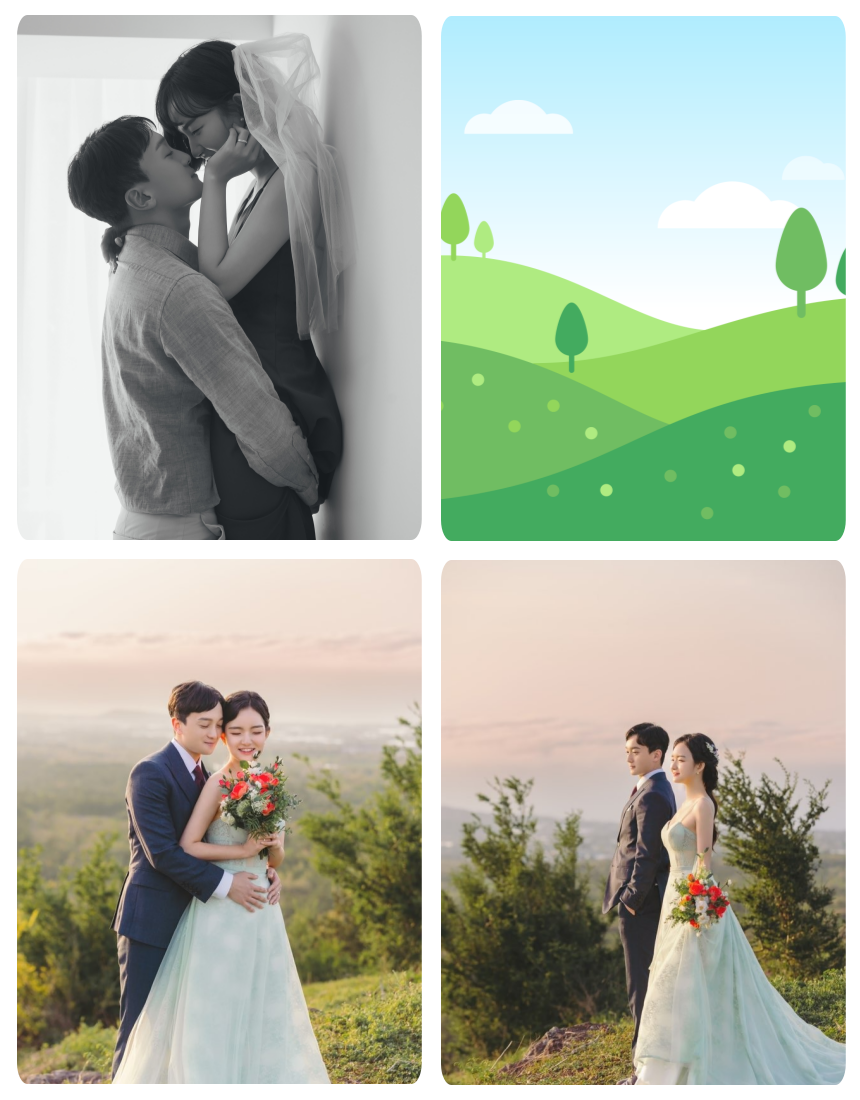
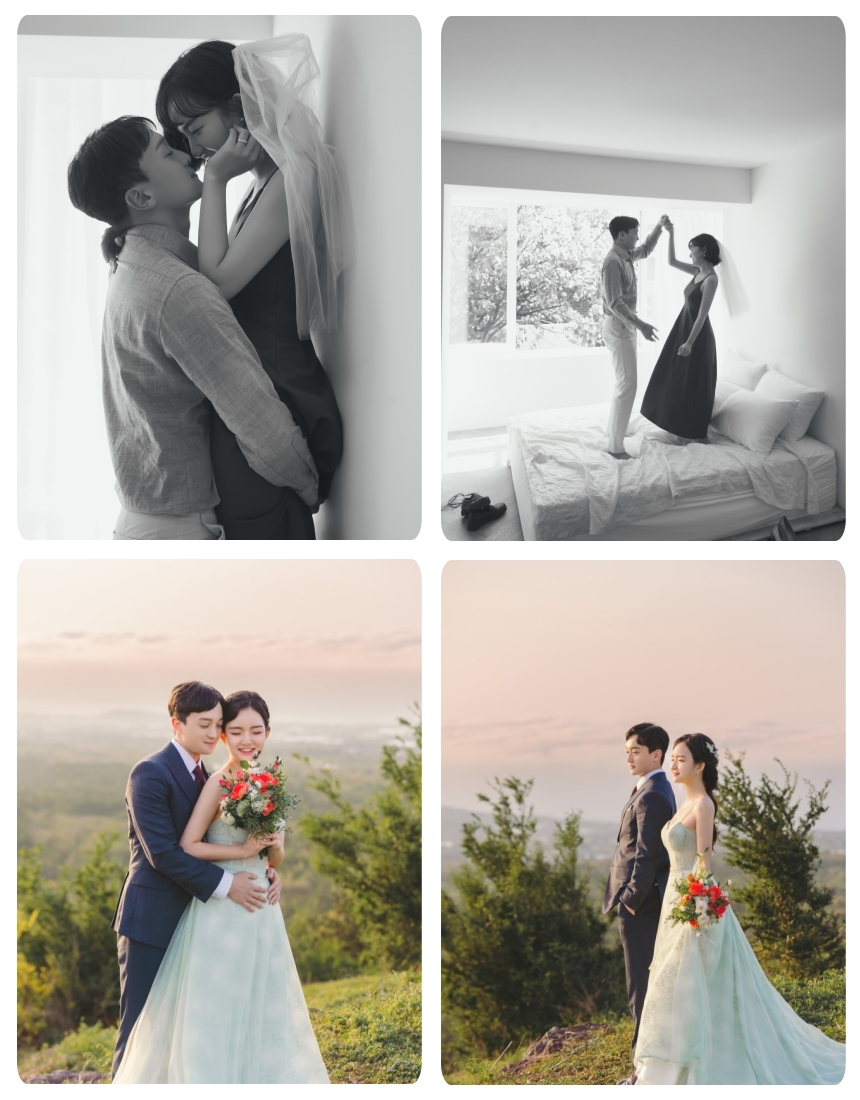
Updates

Changed region(s): [[0.514, 0.0, 0.9977, 0.4945]]

diff --git a/index.html b/index.html
@@ -1,47 +1,48 @@
 <!DOCTYPE html>
 <html lang="en">
-<head>
-  <meta charset="UTF-8">
-  <meta http-equiv="X-UA-Compatible" content="IE=edge">
-  <meta name="viewport" content="width=device-width, initial-scale=1.0">
+  <head>
+    <meta charset="UTF-8" />
+    <meta http-equiv="X-UA-Compatible" content="IE=edge" />
+    <meta name="viewport" content="width=device-width, initial-scale=1.0" />
 
-  <title>요한♥지윤</title>
-  <meta name="description" content="서로가 선택한 유일한 가족을 소개합니다♡">
+    <title>요한♥지윤</title>
+    <meta name="description" content="서로가 선택한 유일한 가족을 소개합니다♡" />
 
-  <meta property="og:url" content="https://yhancsx.github.io/YohanJiyun_Weddingday_20220806">
-  <meta property="og:type" content="website">
-  <meta property="og:title" content="요한♥지윤">
-  <meta property="og:description" content="서로가 선택한 유일한 가족을 소개합니다♡">
-  <meta property="og:image" content="https://yhancsx.github.io/YohanJiyun_Weddingday_20220806/images/ogimage.jpg">
+    <meta property="og:url" content="https://yhancsx.github.io/YohanJiyun_Weddingday_20220806" />
+    <meta property="og:type" content="website" />
+    <meta property="og:title" content="요한♥지윤" />
+    <meta property="og:description" content="서로가 선택한 유일한 가족을 소개합니다♡" />
+    <meta property="og:image" content="https://yhancsx.github.io/YohanJiyun_Weddingday_20220806/images/ogimage.jpg" />
 
-  <link rel="stylesheet" type="text/css" href="./index.css">
-</head>
-<body>
-  <img src="./images/001.png"/>
-  <img src="./images/002.png"/>
-  <img src="./images/003.png"/>
-  <img src="./images/004.png"/>
-  <img src="./images/005.png"/>
-  <img src="./images/006.png"/>
-  <img src="./images/007.png"/>
-  <img src="./images/008.png"/>
-  <img src="./images/009.png"/>
-  <img src="./images/010.png"/>
-  <img src="./images/012.png"/>
-  <img src="./images/013.png"/>
-  <img src="./images/014.png"/>
-  <img src="./images/015.png"/>
-  <img src="./images/016.png"/>
-  <img src="./images/017.png"/>
-  <img src="./images/018.png"/>
-  <img src="./images/019.png"/>
-  <img src="./images/020.png"/>
-  <img src="./images/021.png"/>
-  <img src="./images/022.png"/>
-  <img src="./images/023.png"/>
-  <img src="./images/024.png"/>
-  <img src="./images/025.png"/>
-  <img src="./images/026.png"/>
-  <img src="./images/027.png"/>
-</body>
+    <link rel="stylesheet" type="text/css" href="./index.css" />
+  </head>
+  <body>
+    <img loading="lazy" src="./images/001.png" class="first" />
+    <img loading="lazy" src="./images/002.png" />
+    <img loading="lazy" src="./images/003.png" />
+    <img loading="lazy" src="./images/004.png" />
+    <img loading="lazy" src="./images/005.png" />
+    <img loading="lazy" src="./images/006.png" />
+    <img loading="lazy" src="./images/007.png" />
+    <img loading="lazy" src="./images/008.png" />
+    <img loading="lazy" src="./images/009.png" />
+    <img loading="lazy" src="./images/010.png" />
+    <img loading="lazy" src="./images/012.png" />
+    <img loading="lazy" src="./images/013.png" />
+    <img loading="lazy" src="./images/014.png" />
+    <img loading="lazy" src="./images/015.png" />
+    <img loading="lazy" src="./images/016.png" />
+    <img loading="lazy" src="./images/017.png" />
+    <img loading="lazy" src="./images/018.png" />
+    <img loading="lazy" src="./images/019.png" />
+    <img loading="lazy" src="./images/020.png" />
+    <img loading="lazy" src="./images/021.png" />
+    <img loading="lazy" src="./images/022.png" />
+    <img loading="lazy" src="./images/023.png" />
+    <img loading="lazy" src="./images/024.png" />
+    <img loading="lazy" src="./images/025.png" />
+    <img loading="lazy" src="./images/026.png" />
+    <img loading="lazy" src="./images/027.png" />
+    <script src="./index.js" />
+  </body>
 </html>

diff --git a/index.js b/index.js
@@ -1,0 +1,15 @@
+function randomMain() {
+  const rand = getRandomInt(0, 10);
+  const imgPath = rand % 2 === 0 ? './images/001-1.png' : './images/001.png';
+
+  const firstImage = document.querySelector('img.first');
+  firstImage.src = imgPath;
+}
+
+function getRandomInt(min, max) {
+  min = Math.ceil(min);
+  max = Math.floor(max);
+  return Math.floor(Math.random() * (max - min)) + min; //최댓값은 제외, 최솟값은 포함
+}
+
+randomMain()
